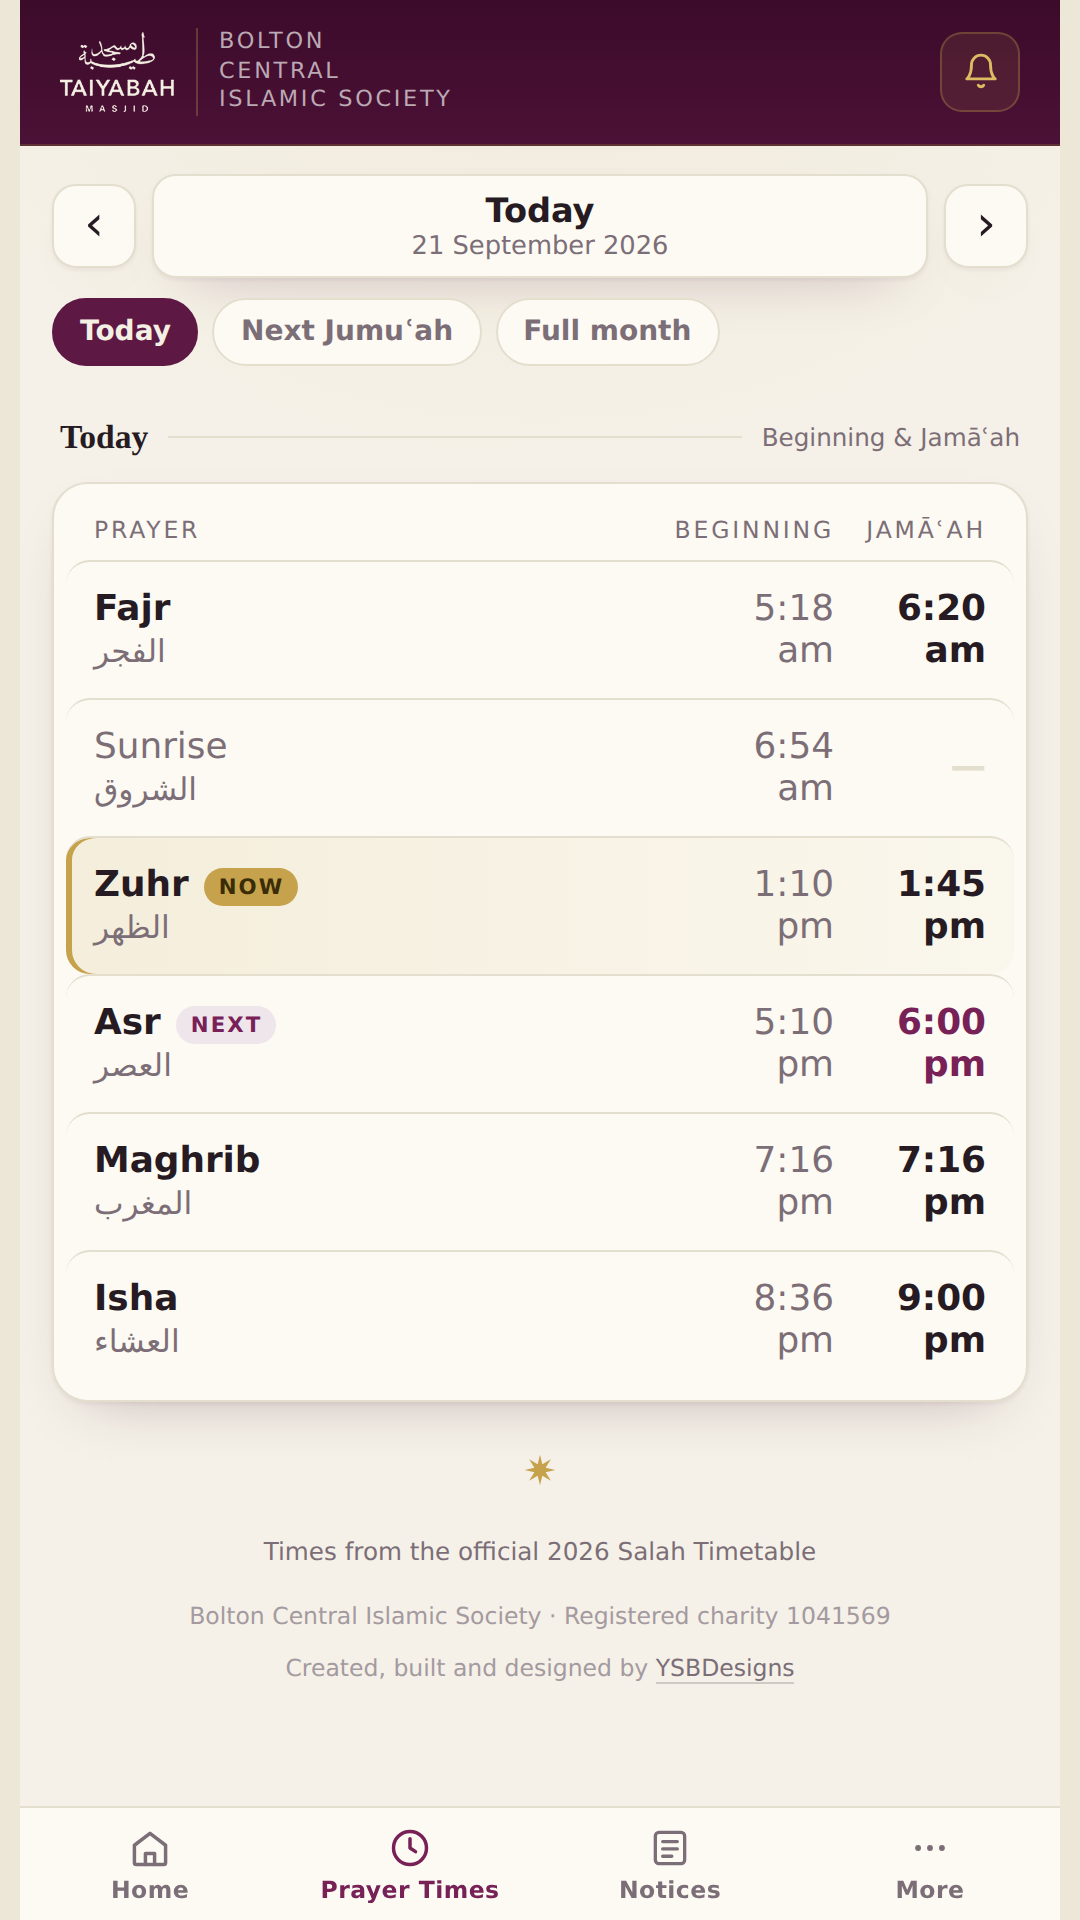
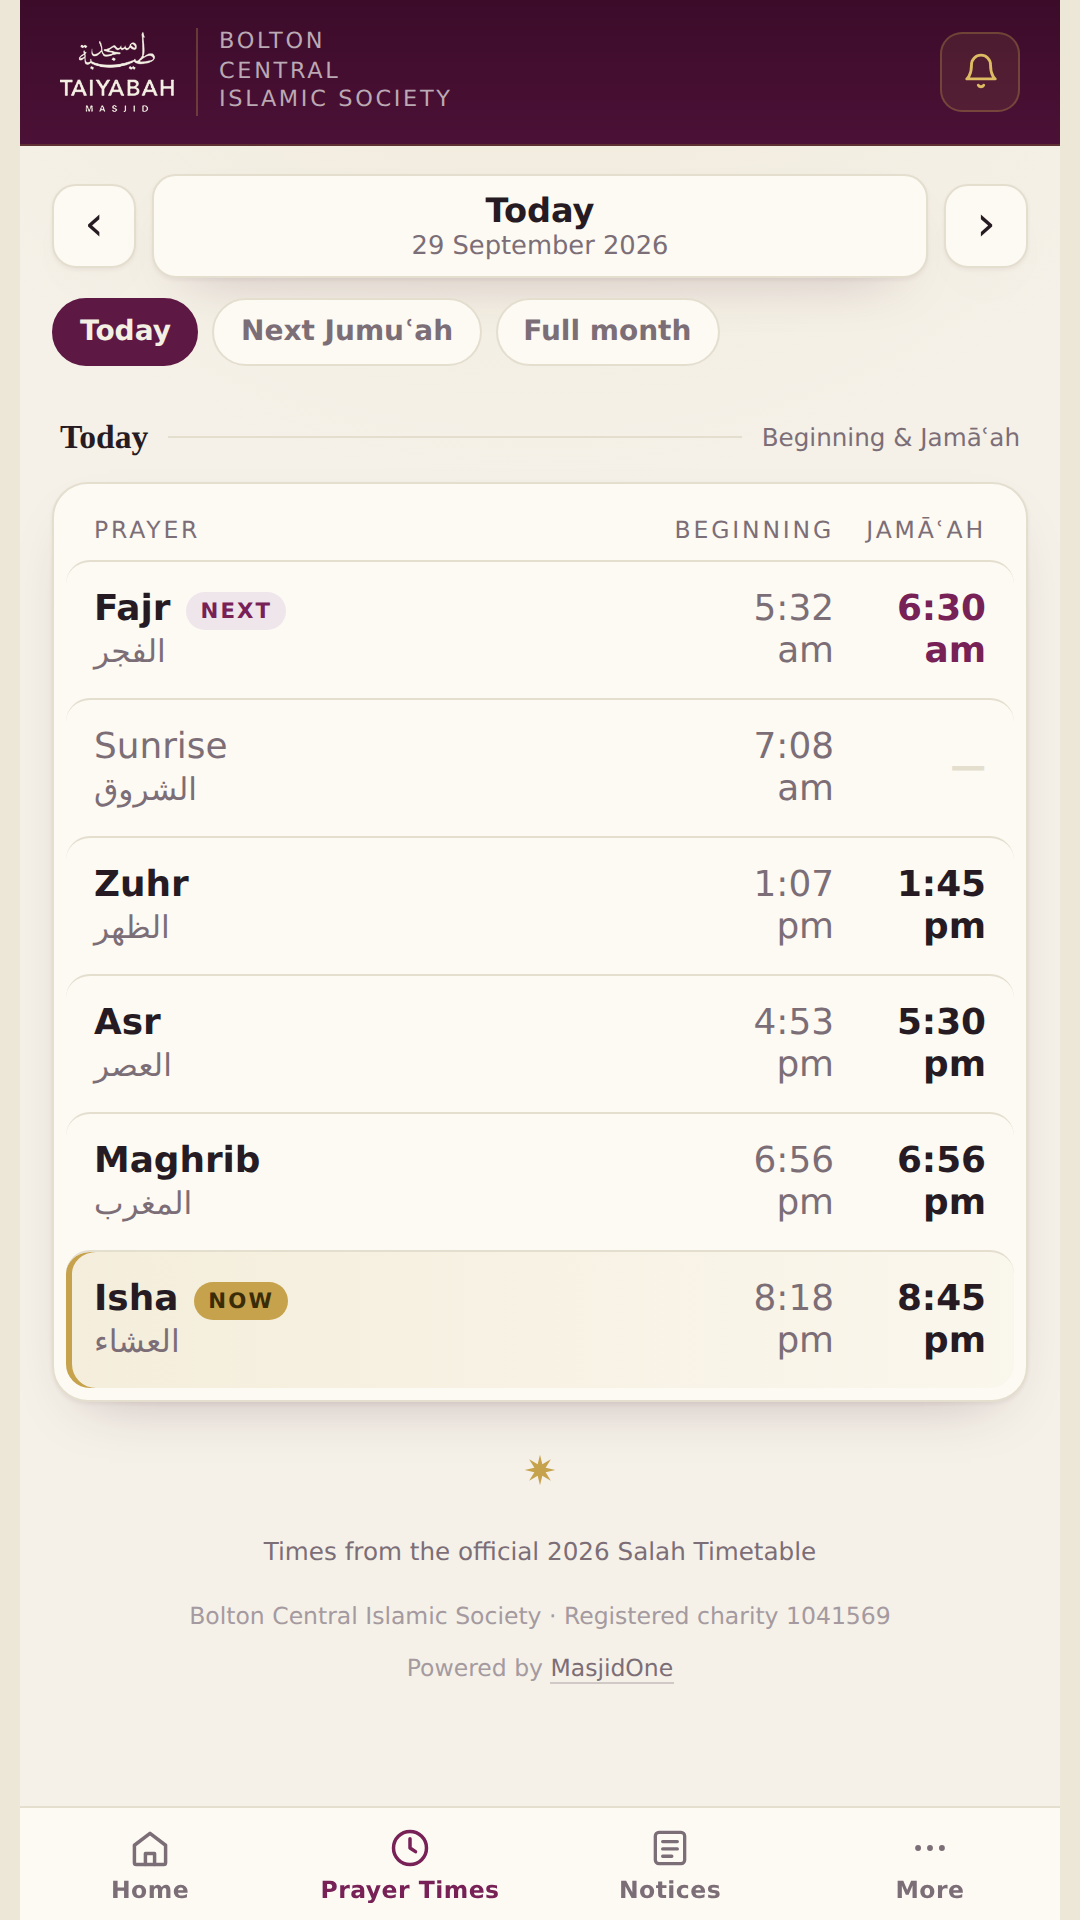
Credit the platform the app runs on, not the studio that built it (#76)
"Created, built and designed by YSBDesigns" credited a supplier for a
one-off job. This app is instance one of MasjidOne, so "Powered by
MasjidOne" says what is actually true, and says it to every masjid whose
committee opens the app.

It is also more durable. A studio can be renamed, sold or wound down; the
platform the app runs on is the thing that will still be accurate in five
years.

Both footers now point at https://masjidone.co.uk, registered today. The
previous credit was not changed until the domain existed, because a
credit that links nowhere is worse than no credit at all.

The BUILD stamp's `studio` becomes `platform` and the devtools banner
follows it, so nothing in the shipped source still names the studio. The
four remaining ysbdesigns references are the website's staging host —
the apply form and the madrasah portal — and are unrelated.

sheet.masjidone replaces sheet.ysbdesigns and is " keep" in every
language, because a product name should not be spelled four ways. The
label beside it is translated properly: بذریعہ, દ્વારા સંચાલિત, مدعوم من.
Those are the ordinary renderings of "powered by" rather than
transliterations, and are worth the imam's eye when he next reviews the
translations.

store/screenshots/02-times.png recaptured — the prayer times footer is in
frame, so the listing would otherwise have advertised the old credit.

sw.js v160 -> v161.

Claude-Session: https://claude.ai/code/session_01KXs2ZSfrUFQiB3x6r1pve7

diff --git a/index.html b/index.html
@@ -1889,7 +1889,7 @@
     <footer>
       <svg class="star" viewBox="0 0 100 100" aria-hidden="true"><polygon fill="currentColor" points="50,2 57.3,32.4 83.9,16.1 67.6,42.7 98,50 67.6,57.3 83.9,83.9 57.3,67.6 50,98 42.7,67.6 16.1,83.9 32.4,57.3 2,50 32.4,42.7 16.1,16.1 42.7,32.4"/></svg>
       <div class="charity"><span data-i18n="common.registered_charity">Bolton Central Islamic Society &middot; Registered charity</span> <span data-i18n-latin>1041569</span></div>
-      <div class="credit"><span data-i18n="sheet.app_built_by">Created, built and designed by</span> <a href="https://ysbdesigns.uk" target="_blank" rel="noopener" data-i18n="sheet.ysbdesigns">YSBDesigns</a></div>
+      <div class="credit"><span data-i18n="sheet.app_built_by">Powered by</span> <a href="https://masjidone.co.uk" target="_blank" rel="noopener" data-i18n="sheet.masjidone">MasjidOne</a></div>
     </footer>
   </div>
   </main>
@@ -1936,7 +1936,7 @@
       <svg class="star" viewBox="0 0 100 100" aria-hidden="true"><polygon fill="currentColor" points="50,2 57.3,32.4 83.9,16.1 67.6,42.7 98,50 67.6,57.3 83.9,83.9 57.3,67.6 50,98 42.7,67.6 16.1,83.9 32.4,57.3 2,50 32.4,42.7 16.1,16.1 42.7,32.4"/></svg>
       <div class="fr" data-i18n="sheet.times_from_the_official_2026">Times from the official 2026 Salah Timetable</div>
       <div class="charity"><span data-i18n="common.registered_charity">Bolton Central Islamic Society &middot; Registered charity</span> <span data-i18n-latin>1041569</span></div>
-      <div class="credit"><span data-i18n="sheet.app_built_by">Created, built and designed by</span> <a href="https://ysbdesigns.uk" target="_blank" rel="noopener" data-i18n="sheet.ysbdesigns">YSBDesigns</a></div>
+      <div class="credit"><span data-i18n="sheet.app_built_by">Powered by</span> <a href="https://masjidone.co.uk" target="_blank" rel="noopener" data-i18n="sheet.masjidone">MasjidOne</a></div>
     </footer>
   </div>
   </main>
@@ -6166,7 +6166,7 @@ const BUILD = {
   app:"Taiyabah Masjid",
   author:"Yameen Bux",
   url:"https://github.com/yameenbux",
-  studio:"https://ysbdesigns.uk",
+  platform:"https://masjidone.co.uk",
   licensedTo:"Bolton Central Islamic Society (charity 1041569)",
   built:"2026-08-12",
   fingerprint:"fd9aa73c54108914"
@@ -6175,7 +6175,7 @@ Object.freeze(BUILD);
 try{
   window.__taiyabah = BUILD;
   console.log("%cTaiyabah Masjid","font:600 15px system-ui;color:#DCBB63;background:#3C0B2A;padding:4px 10px;border-radius:4px");
-  console.log(`Built by ${BUILD.author} · ${BUILD.studio}`);
+  console.log(`Built by ${BUILD.author} · ${BUILD.platform}`);
   console.log(`Licensed to ${BUILD.licensedTo} · build ${BUILD.fingerprint}`);
   console.log("Not licensed for reuse elsewhere. See LICENSE.md.");
 }catch(e){}

diff --git a/lang/gu.js b/lang/gu.js
@@ -16,7 +16,7 @@ window.LANG_PACK = {
  "name": "ગુજરાતી",
  "nameEn": "Gujarati",
  "dir": "ltr",
- "version": "d4e243e975b5",
+ "version": "a17d6b058fcd",
  "strings": {
   "menu.settings": "સેટિંગ્સ",
   "menu.notifications": "સૂચનાઓ",
@@ -175,7 +175,7 @@ window.LANG_PACK = {
   "sheet.account_number": "ખાતા નંબર",
   "sheet.copy_all_details": "તમામ વિગતો કૉપિ કરો",
   "sheet.give_any_other_amount": "બીજી કોઈ રકમ આપો",
-  "sheet.ysbdesigns": "YSBDesigns",
+  "sheet.masjidone": "MasjidOne",
   "contact.contact_us": "સંપર્ક કરો",
   "contact.done": "થઈ ગયું",
   "contact.taiyabah_masjid": "તૈયબા મસ્જિદ",
@@ -554,7 +554,7 @@ window.LANG_PACK = {
   "sheet.surah_al_kahf": "સૂરહ અલ-કહફ",
   "alerts.surah_al_kahf": "સૂરહ અલ-કહફ",
   "sheet.friday_morning_reminder": "શુક્રવારે સવારે, તે વાંચવાની યાદ",
-  "sheet.app_built_by": "બનાવ્યું અને ડિઝાઇન કર્યું",
+  "sheet.app_built_by": "દ્વારા સંચાલિત",
   "sheet.remind_me": "મને યાદ કરાવો",
   "sheet.before_jamaah": "જમાઅત પહેલાં",
   "sheet.janazah": "જનાઝા",

diff --git a/lang/ur.js b/lang/ur.js
@@ -16,7 +16,7 @@ window.LANG_PACK = {
  "name": "اردو",
  "nameEn": "Urdu",
  "dir": "rtl",
- "version": "2456929b1430",
+ "version": "c31d98a8a996",
  "strings": {
   "menu.settings": "ترتیبات",
   "menu.notifications": "اطلاعات",
@@ -175,7 +175,7 @@ window.LANG_PACK = {
   "sheet.account_number": "اکاؤنٹ نمبر",
   "sheet.copy_all_details": "تمام تفصیلات نقل کریں",
   "sheet.give_any_other_amount": "کوئی اور رقم دیں",
-  "sheet.ysbdesigns": "YSBDesigns",
+  "sheet.masjidone": "MasjidOne",
   "contact.contact_us": "رابطہ کریں",
   "contact.done": "ہو گیا",
   "contact.taiyabah_masjid": "طیبہ مسجد",
@@ -554,7 +554,7 @@ window.LANG_PACK = {
   "sheet.surah_al_kahf": "سورۃ الکہف",
   "alerts.surah_al_kahf": "سورۃ الکہف",
   "sheet.friday_morning_reminder": "جمعہ کی صبح، اسے پڑھنے کی یاد دہانی",
-  "sheet.app_built_by": "بنایا اور ڈیزائن کیا",
+  "sheet.app_built_by": "بذریعہ",
   "sheet.remind_me": "مجھے یاد دلائیں",
   "sheet.before_jamaah": "جماعت سے پہلے",
   "sheet.janazah": "جنازہ",

diff --git a/lang/ar.js b/lang/ar.js
@@ -16,7 +16,7 @@ window.LANG_PACK = {
  "name": "العربية",
  "nameEn": "Arabic",
  "dir": "rtl",
- "version": "7a873198f482",
+ "version": "f18bd234820c",
  "strings": {
   "menu.settings": "الإعدادات",
   "menu.notifications": "الإشعارات",
@@ -175,7 +175,7 @@ window.LANG_PACK = {
   "sheet.account_number": "رقم الحساب",
   "sheet.copy_all_details": "انسخ كل التفاصيل",
   "sheet.give_any_other_amount": "تبرّع بمبلغ آخر",
-  "sheet.ysbdesigns": "YSBDesigns",
+  "sheet.masjidone": "MasjidOne",
   "contact.contact_us": "اتصل بنا",
   "contact.done": "تم",
   "contact.taiyabah_masjid": "مسجد طيبة",
@@ -554,7 +554,7 @@ window.LANG_PACK = {
   "sheet.surah_al_kahf": "سورة الكهف",
   "alerts.surah_al_kahf": "سورة الكهف",
   "sheet.friday_morning_reminder": "صباح الجمعة، تذكير بقراءتها",
-  "sheet.app_built_by": "تطوير وتصميم",
+  "sheet.app_built_by": "مدعوم من",
   "sheet.remind_me": "ذكّرني",
   "sheet.before_jamaah": "قبل الجماعة",
   "sheet.janazah": "الجنازة",

diff --git a/sw.js b/sw.js
@@ -5,7 +5,7 @@
 /* Taiyabah Masjid — service worker (v1 shell)
    Caches the app shell so today's times open offline.
    Push handling is stubbed; the store build wires this to OneSignal/APNs/FCM. */
-const CACHE = "taiyabah-v160";
+const CACHE = "taiyabah-v161";
 const SHELL = ["./index.html", "./admin.html", "./privacy.html", "./delete-data.html", "./manifest.webmanifest", "./logo-cream.png", "./icon-192.png?v=2", "./icon-512.png?v=2", "./apple-touch-icon.png?v=2"];
 
 /* addAll goes through the browser's ordinary HTTP cache, and GitHub Pages
